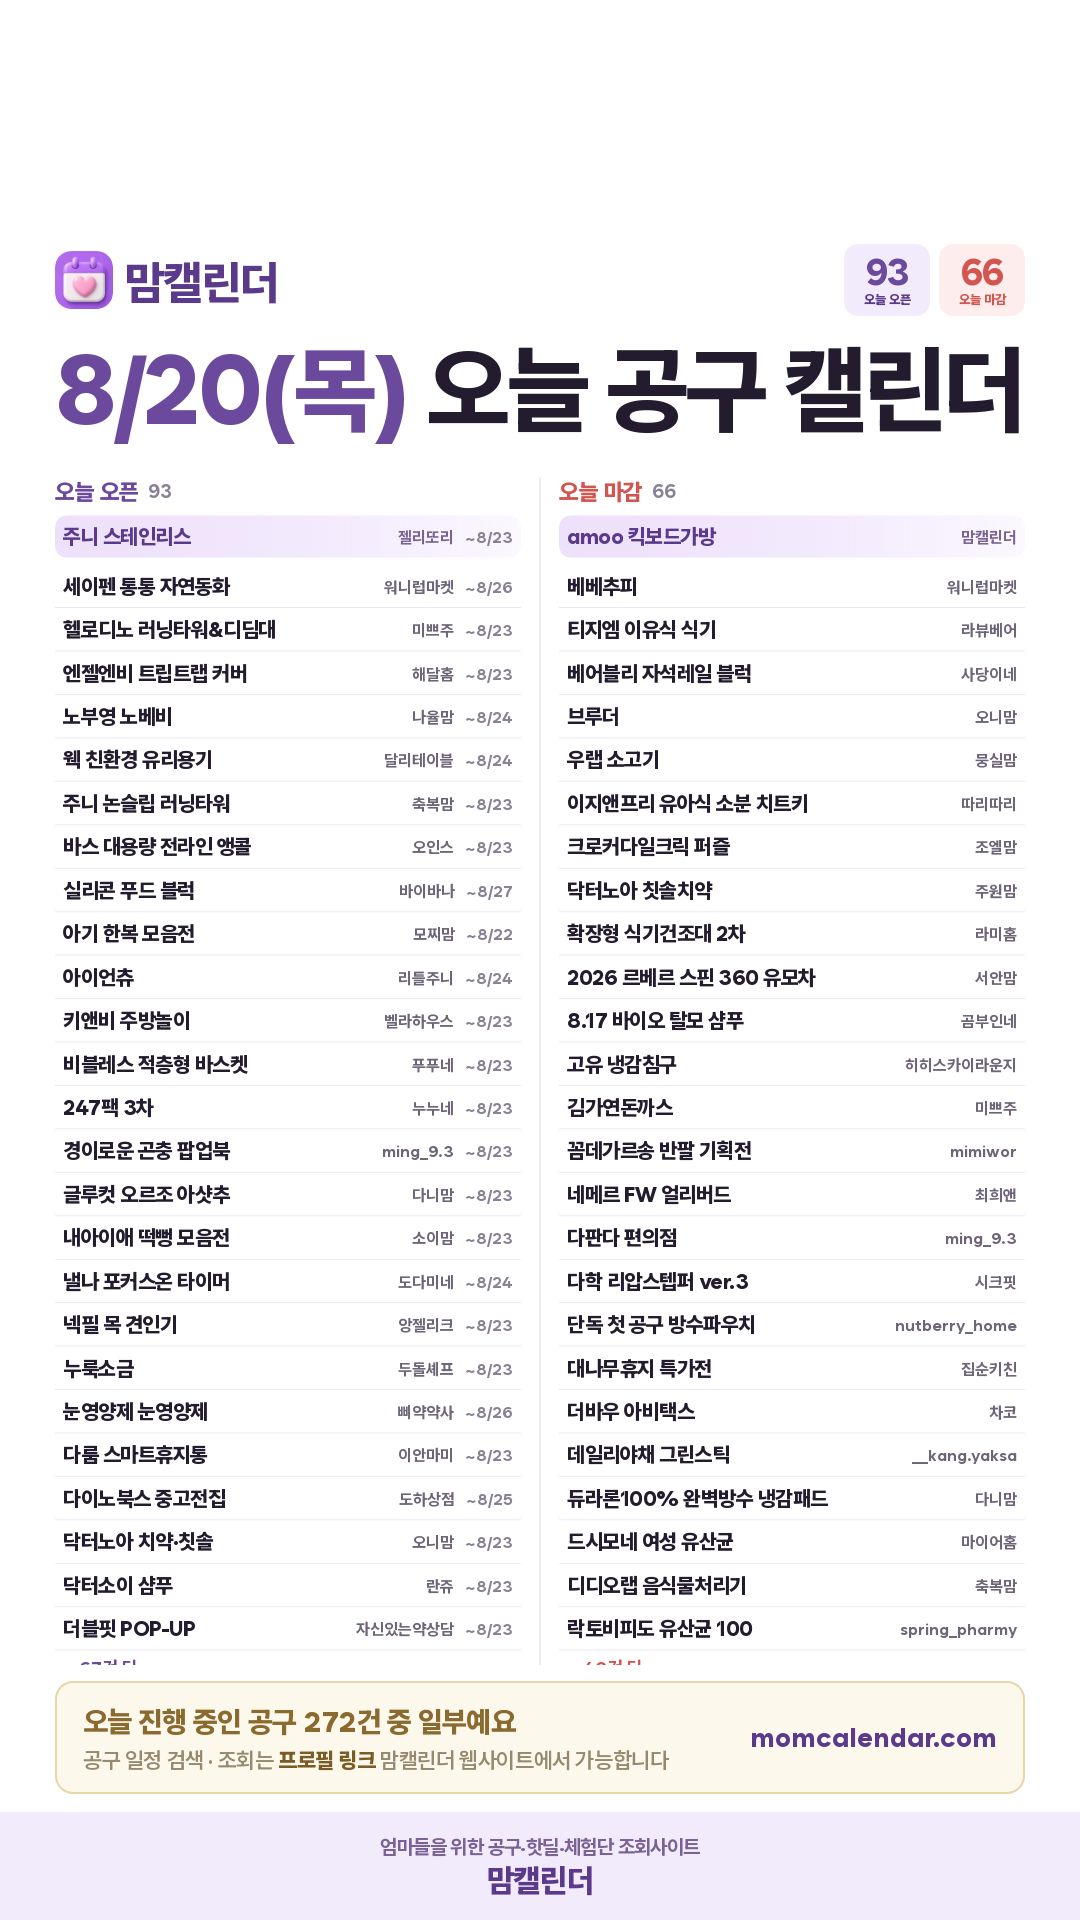
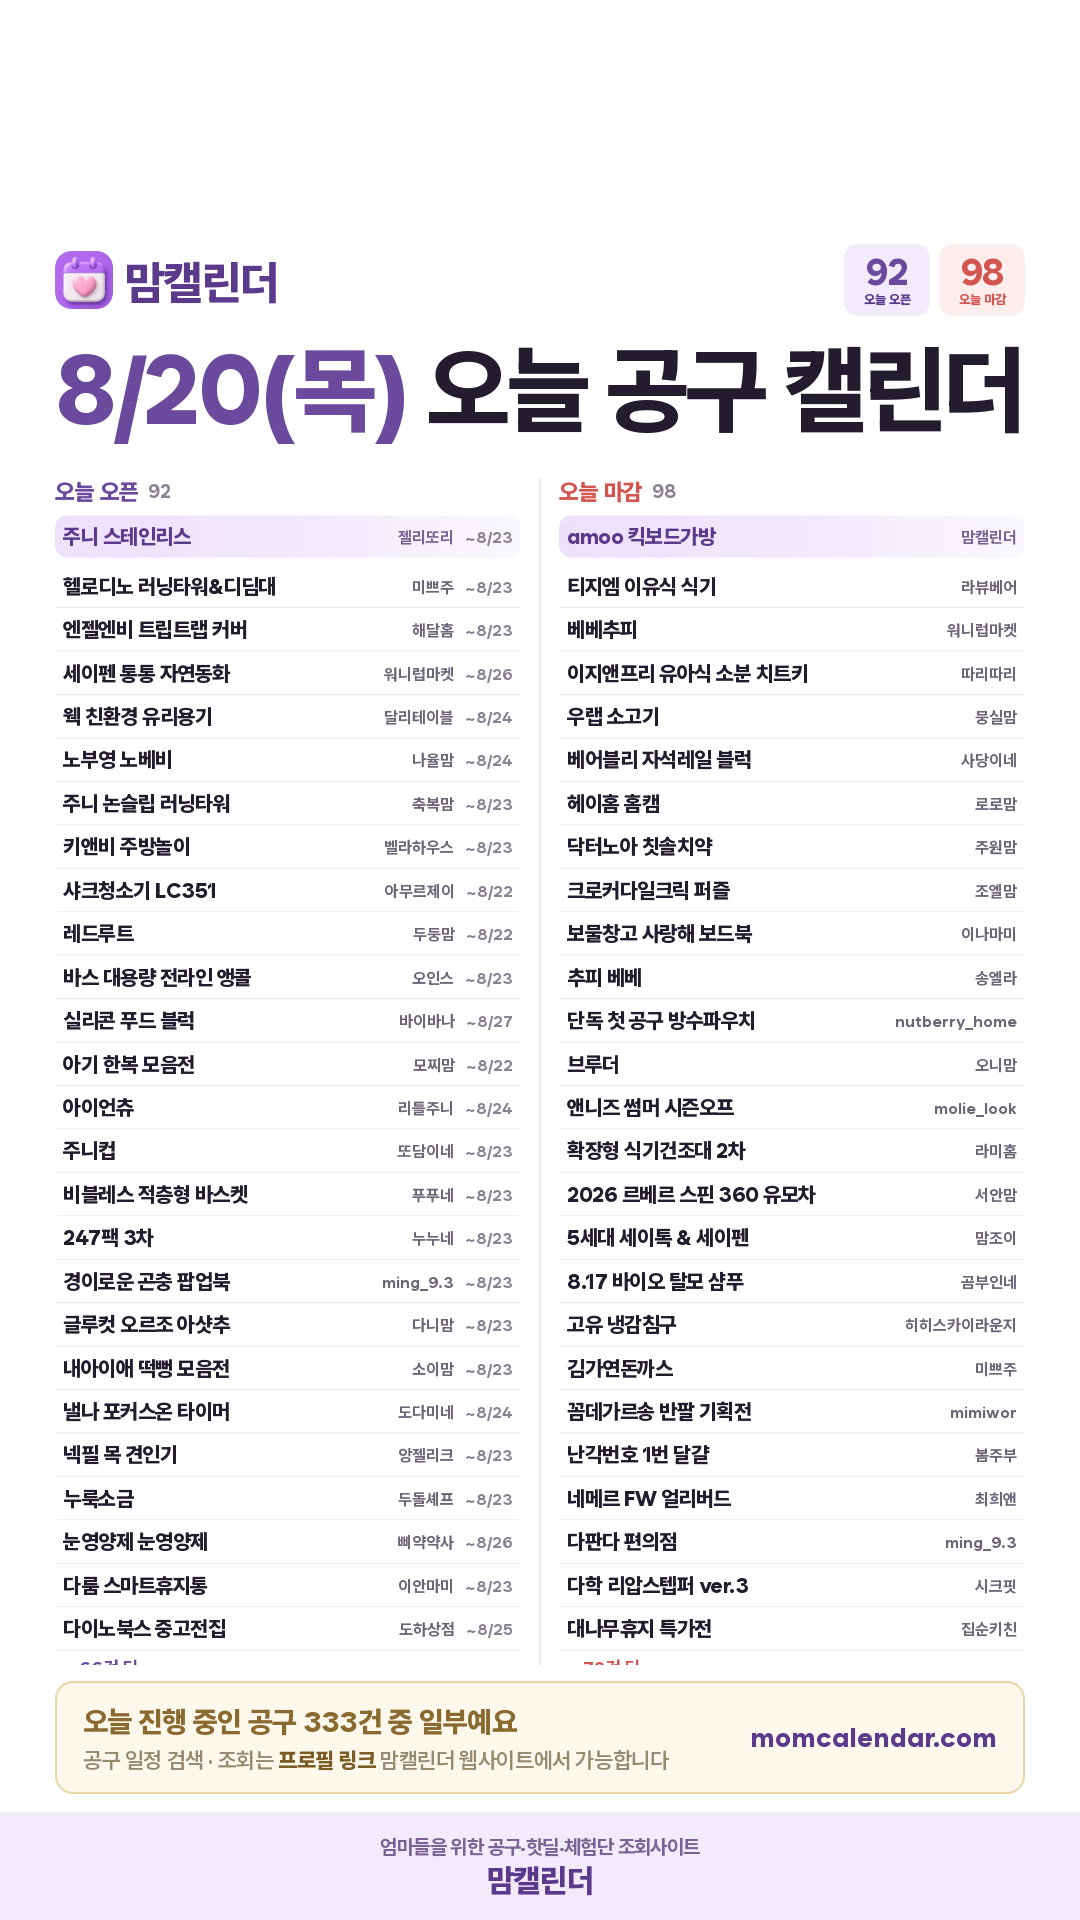
아침 인스타 카드 (2026-08-19)

diff --git a/daily/2026-08-20.html b/daily/2026-08-20.html
@@ -19,7 +19,7 @@ textarea{width:100%;height:260px;border:1px solid #E3DCEF;border-radius:10px;pad
 .todo p{font-size:12.5px;color:#6B6379;line-height:1.75;margin-top:6px}
 .todo a{color:#5B2E8C;font-weight:700}
 </style></head><body>
-<div class="hd"><div class="wrap"><h1>8월 20일(목) 인스타 카드</h1><p>오픈 93건 · 마감 66건</p></div></div>
+<div class="hd"><div class="wrap"><h1>8월 20일(목) 인스타 카드</h1><p>오픈 92건 · 마감 98건</p></div></div>
 <div class="wrap">
   <div class="todo"><b>사장님 확인 부탁드려요 · 링크프라이스 · 오늘의집 제휴 신청 (각 5분)</b><p>핫딜을 우리 수익링크로 바꿀 수 있는 곳을 늘리는 일입니다.<br>
     ① <b>링크프라이스</b> 로그인 → 머천트 검색 → <b>오늘의집·SSG</b> 제휴 신청
@@ -36,7 +36,7 @@ textarea{width:100%;height:260px;border:1px solid #E3DCEF;border-radius:10px;pad
 맘캘린더에서 공유드리는
 8월 20일(목) 오늘 공구 캘린더
 
-오픈 82건 · 마감 56건
+오픈 82건 · 마감 69건
 
 ━━━━━━━━━━━━━━
 
@@ -44,17 +44,20 @@ textarea{width:100%;height:260px;border:1px solid #E3DCEF;border-radius:10px;pad
 · 주니 스테인리스 — 젤리또리 @jelly_ddori (~8/23)
 
 🔓 오늘 오픈하는 공구
-· 세이펜 통통 자연동화 — 워니럽마켓 (~8/26)
 · 헬로디노 러닝타워&amp;디딤대 — 미쁘주 (~8/23)
 · 엔젤엔비 역방쿠·트립트랩 커버 — 해달홈 (~8/23)
-· 노부영 노베비 — 나율맘 (~8/24)
+· 세이펜 통통 자연동화 — 워니럽마켓 (~8/26)
 · 웩 친환경 유리용기 — 달리테이블 (~8/24)
+· 노부영 노베비 — 나율맘 (~8/24)
 · 주니 논슬립 러닝타워 — 축복맘 (~8/23)
+· 키앤비 주방놀이 — 벨라하우스 (~8/23)
+· 샤크청소기 LC351 — 아무르제이 (~8/22)
+· 레드루트 — 두둥맘 (~8/22)
 · 바스 대용량 전라인 앵콜 — 오인스 (~8/23)
 · 실리콘 푸드 블럭 — 바이바나 (~8/27)
 · 아기 한복 모음전 — 모찌맘 (~8/22)
 · 아이언츄 (온가족 맛있는 철분제) — 리틀주니 (~8/24)
-· 키앤비 주방놀이 — 벨라하우스 (~8/23)
+· 주니컵 — 또담이네 (~8/23)
 · [JBJ] 비블레스 모딕 적층형 바스켓 — 푸푸네 (~8/23)
 · 247팩 3차 — 누누네 (~8/23)
 · 경이로운 곤충 팝업북 — ming_9.3 (~8/23)
@@ -74,47 +77,45 @@ textarea{width:100%;height:260px;border:1px solid #E3DCEF;border-radius:10px;pad
 · 라꽁비에뜨 버터 — 다미소미맘 (~8/23)
 · 라비킷 무선 스타일러 — 지유테이블 (~8/23)
 · 레꼴뜨 무선초퍼 — 먹조아맘 (~8/21)
-· 레드루트 — 두둥맘 (~8/22)
 · 로슬러실링팬 2차 — 러브율홈 (~8/23)
-· 롱비다 원료 모비타커큐민 — 뷰약사 (~8/26)
-…나머지 48건은 맘캘린더 사이트에서 보실 수 있어요
+…나머지 47건은 맘캘린더 사이트에서 보실 수 있어요
 
 ⏰ 오늘 마감하는 공구
 · amoo 킥보드가방 — 맘캘린더 @momcal_
-· 베베추피 — 워니럽마켓
 · 티지엠 이유식 식기 — 라뷰베어
-· 베어블리 자석레일 블럭 — 사당이네
-· 브루더 — 오니맘
-· 우랩 소고기 — 뭉실맘
+· 베베추피 — 워니럽마켓
 · 이지앤프리 유아식 소분 치트키 — 따리따리
-· 크로커다일크릭 퍼즐 — 조엘맘
+· 우랩 소고기 — 뭉실맘
+· 베어블리 자석레일 블럭 — 사당이네
+· 헤이홈 홈캠 — 로로맘
 · 닥터노아 칫솔치약 — 주원맘
+· 크로커다일크릭 퍼즐 — 조엘맘
+· 보물창고 사랑해 보드북 — 이나마미
+· 추피 베베 — 송엘라
+· 단독 첫 공구 방수파우치 — nutberry_home
+· 브루더 — 오니맘
+· 앤니즈 썸머 시즌오프 — molie_look
 · 확장형 식기건조대 2차 — 라미홈
 · 2026 르베르 스핀 360 유모차 — 서안맘
+· 5세대 세이톡 &amp; 세이펜 — 맘조이
 · 8.17 보리밥나무 바이오 탈모 샴푸 — 곰부인네
 · 고유 냉감침구 — 히히스카이라운지
 · 김가연돈까스 — 미쁘주
 · 꼼데가르송 반팔 기획전 — mimiwor
+· 난각번호 1번 달걀 — 봄주부
 · 네메르 FW 얼리버드 — 최희앤
 · 다판다 편의점 — ming_9.3
 · 다학 리압스텝퍼 ver.3 — 시크핏
-· 단독 첫 공구 방수파우치 — nutberry_home
 · 대나무휴지 특가전 — 집순키친
 · 더바우 아비택스 — 차코
 · 데일리야채 그린스틱 — __kang.yaksa
 · 듀라론100% 완벽방수 냉감패드 — 다니맘
 · 드시모네 여성 유산균 — 마이어홈
 · 디디오랩 음식물처리기 — 축복맘
+· 뚜아모아 기저귀 가방 — 믿쓰릴리맘
+· 라무르 스킨케어 — 
 · 락토비피도 유산균 100 — spring_pharmy
-· 룰라러브 천연해면 앵콜 — 쁨마미
-· 르반테 유기농 엑스트라버진 올리브오일 — 아얌얌
-· 리셋세럼 — jmini_ljm
-· 립프로그 아이스크림 &amp; 피자 카트 — 건이맘
-· 마더스콘 실내비눗방울 — 쀼맘
-· 메디니스 목견인기 — 웰씨
-· 모래놀이 — 또담이네
-· 무ㅇㅇㅇ, 그 실내복 — 차니맘
-…나머지 22건은 맘캘린더 사이트에서 보실 수 있어요
+…나머지 35건은 맘캘린더 사이트에서 보실 수 있어요
 
 ━━━━━━━━━━━━━━
 
@@ -127,7 +128,7 @@ textarea{width:100%;height:260px;border:1px solid #E3DCEF;border-radius:10px;pad
 ⚠ 공구 일정은 판매자 사정에 따라 변경되거나 조기 마감될 수 있어요. 구매 전에 해당 셀러 계정에서 한 번 더 확인해 주세요.
 
 #맘캘린더 #공구일정 #육아공구 #육아용품 #책육아 #육아템 #먹거리공구 #살림템 #교구 #유모차 #영양제 #아기용품</textarea>
-    <div class="meta">2187자 / 2200자 · 오픈 33/81 · 마감 34/56</div>
+    <div class="meta">2197자 / 2200자 · 오픈 34/81 · 마감 34/69</div>
     <button class="btn btn2" onclick="cp('cap','캡션')">캡션 복사</button>
   </div>
   <div class="card">
@@ -145,12 +146,12 @@ textarea{width:100%;height:260px;border:1px solid #E3DCEF;border-radius:10px;pad
 · 카톡 수다방 → https://open.kakao.com/o/gr2kJhCh
 ─────────────
 
-8월 20일(목), 오늘 새로 오픈하는 인스타 공구일정 93건을 카테고리별로 정리했어요.
-오늘 마감되는 공구도 66건 있으니 놓치지 마세요.
+8월 20일(목), 오늘 새로 오픈하는 인스타 공구일정 92건을 카테고리별로 정리했어요.
+오늘 마감되는 공구도 98건 있으니 놓치지 마세요.
 
 (여기에 저장해 두신 카드 사진을 넣어주세요)
 
-■ 오늘 오픈하는 공구 93건
+■ 오늘 오픈하는 공구 92건
 
 [육아]
 · 경이로운 곤충 팝업북 — ming_9.3 (~8/23 마감)
@@ -198,7 +199,6 @@ textarea{width:100%;height:260px;border:1px solid #E3DCEF;border-radius:10px;pad
 · 세정서버 하수구 냄새 박멸템 — 드엘리사 (~8/23 마감)
 · 스닐로스티치 보냉백 — 워니럽마켓 (~8/23 마감)
 · 스웨이 식기세척기 세제 — 란쥬 (~8/23 마감)
-· 신간 소개 — 리틀주니 (~8/26 마감)
 · 워셔블 분필 — 뭉실맘 (~8/23 마감)
 · 웩 친환경 유리용기 — 달리테이블 (~8/24 마감)
 · 주니 스테인리스 — 젤리또리 (~8/23 마감)
@@ -263,13 +263,16 @@ textarea{width:100%;height:260px;border:1px solid #E3DCEF;border-radius:10px;pad
 · 오래오래프로젝트 야크츄 — 0909iii09 (~8/24 마감)
 · 허브홀릭 열빙어 — 0909iii09 (~8/23 마감)
 
-■ 오늘 마감하는 공구 66건
+■ 오늘 마감하는 공구 98건
 · 2026 르베르 스핀 360 유모차 — 서안맘
+· 5세대 세이톡 &amp; 세이펜 — 맘조이
 · 8.17 보리밥나무 바이오 탈모 샴푸 — 곰부인네
 · amoo 킥보드가방 — 맘캘린더
+· non gmo 무항생제 장어 — 다른바른맘
 · 고유 냉감침구 — 히히스카이라운지
 · 김가연돈까스 — 미쁘주
 · 꼼데가르송 반팔 기획전 — mimiwor
+· 난각번호 1번 달걀 — 봄주부
 · 네메르 FW 얼리버드 — 최희앤
 · 다판다 편의점 — ming_9.3
 · 다학 리압스텝퍼 ver.3 — 시크핏
@@ -282,11 +285,16 @@ textarea{width:100%;height:260px;border:1px solid #E3DCEF;border-radius:10px;pad
 · 듀라론100% 완벽방수 냉감패드 — 다니맘
 · 드시모네 여성 유산균 — 마이어홈
 · 디디오랩 음식물처리기 — 축복맘
+· 뚜아모아 기저귀 가방 — 믿쓰릴리맘
+· 라무르 스킨케어 — 
+· 라온킴 야채큐브 — 
 · 락토비피도 유산균 100 — spring_pharmy
+· 룰라러브 그리스 천연 해면 — 서안맘
 · 룰라러브 천연해면 앵콜 — 쁨마미
 · 르반테 유기농 엑스트라버진 올리브오일 — 아얌얌
 · 르베르 스핀360 — 떠후네
 · 리셋세럼 — jmini_ljm
+· 리안 프리모 하이체어 — 뮤즈마켓
 · 립프로그 아이스크림 &amp; 피자 카트 — 건이맘
 · 마더스콘 실내비눗방울 — 쀼맘
 · 메디니스 목견인기 — 웰씨
@@ -296,37 +304,61 @@ textarea{width:100%;height:260px;border:1px solid #E3DCEF;border-radius:10px;pad
 · 뮤시피 바디 케어 — linakeemz
 · 미닉스 더 플렌더 mini — 헤이지니
 · 미닉스 맥스 음쓰처리기 — 부끄
+· 밀키요 — 바다맘
+· 바밤 단호박 패키지 — 
 · 베로로 에어 침대가드 — needlenina
-· 베베추피 — 워니럽마켓
 · 베베추피 — 러블리트니
+· 베베추피 — 미국이맘
+· 베베추피 — 워니럽마켓
 · 베어블리 자석레일 블럭 — 사당이네
 · 변기청소 이지드롭 4차 — 미르홈
 · 보물창고 사랑해 보드북 — 이나마미
+· 브라운 VIP 골드블루 물티슈 — 
 · 브루더 — 오니맘
 · 브리엘 기획전 (유아 버블클렌저&amp;바스슬라임) — 누누홈
 · 블루래빗 생생자연관찰 — 하늘
 · 빈백 앵콜 — master_yewon
+· 소중한습관 — 산들맘
+· 소중한습관 물티슈 — 밤줌미네
+· 스노우키즈 물감놀이 — 
+· 스닐로스티치 — 
 · 스위스 덴트 칫솔 — oliviahome
+· 심플룸 올인원 책장 — 
+· 아오라 장난감 정리함 — 
+· 아이앤어스 세제 — 떠아니네
 · 아토케어 침구청소기 — 러브율홈
 · 액막이 뭉태키링 — 유자몽
 · 앤니즈 썸머 시즌오프 — molie_look
 · 오메가3 망고맛 2차 — 연지
+· 요거쪽쪽 — 마이희로
 · 우랩 소고기 — 뭉실맘
 · 유기농 발사믹식초 — 집순키친
 · 이지앤프리 유아식 소분 치트키 — 따리따리
+· 일프로 가을 신상 실내복 — 
 · 자브백 기저귀가방 — 라뷰베어
+· 잼바라 현미경 카메라 — 지지마마
+· 주니 전제품 총 모음전 — 
 · 지압슬리퍼 앵콜 — 리틀주니
+· 찐티보리&amp;찐티옥수수 — 
+· 초정담 곰국 — 러블리아인
+· 초정담 한우 곰탕 — 
 · 추피 베베 — 송엘라
 · 추피 영문판(2차창) — 워니럽마켓
 · 추피 영어 — 송엘라
+· 추피의 생활이야기 영문판 — 
 · 캐논 G3990 수량한정 — needlenina
 · 크로커다일크릭 퍼즐 — 조엘맘
 · 키즈 아르기닌 — 리틀주니
 · 타고가요 캐리어 특가 — 양미라
+· 탁가온 이유식판 — 콩콩맘
+· 트루엔 초임계 알티지오메가3 — 
 · 티지엠 이유식 식기 — 라뷰베어
 · 폴로 볼캡 — 제제백화점
+· 프레벨롱 퓨레 — 돼지수
 · 플레이매트 재진행 — 나누맘
+· 헤이홈 카메라 — 로로맘
 · 헤이홈 홈캠 — 로로맘
+· 헬로우 마카다미아 — 
 · 호메로스 불멸의 서사시 일리아스, 오디세이아 — 위쓰담북
 · 확장형 식기건조대 2차 — 라미홈
 · 휴대용 보드게임 — 온이프홈
@@ -334,7 +366,7 @@ textarea{width:100%;height:260px;border:1px solid #E3DCEF;border-radius:10px;pad
 ■ 오늘의 브랜드: 두피
 · 두피 공구는 인스타 셀러들이 기간을 정해 여는 공동구매예요. 최근에는 마이어홈, 유니맘(이소현) 님이 진행했어요.
 · 가격은 오픈일에 셀러 계정 공지로 공개돼요. 같은 제품이라도 셀러·구성에 따라 조금씩 달라서, 공지에서 확인하는 게 가장 정확해요.
-· 이번에 놓쳤다면 너무 아쉬워하지 마세요. 두피 공구는 보통 일정 간격을 두고 다시 열려요. 전체 일정은 여기서 → https://momcalendar.com/g/%EB%91%90%ED%94%BC.html
+· 이번에 놓쳤다면 너무 아쉬워하지 마세요. 두피 공구는 보통 일정 간격을 두고 다시 열려요. 전체 일정은 여기서 → https://momcalendar.com
 
 ※ 공구 일정은 판매자 사정에 따라 변경되거나 조기 마감될 수 있어요. 구매 전에 해당 셀러 계정에서 한 번 더 확인해 주세요.
 

diff --git a/daily/index.html b/daily/index.html
@@ -1,1 +1,1 @@
-<!DOCTYPE html><meta charset="UTF-8"><meta http-equiv="refresh" content="0;url=./2026-08-19.html">
+<!DOCTYPE html><meta charset="UTF-8"><meta http-equiv="refresh" content="0;url=./2026-08-20.html">
